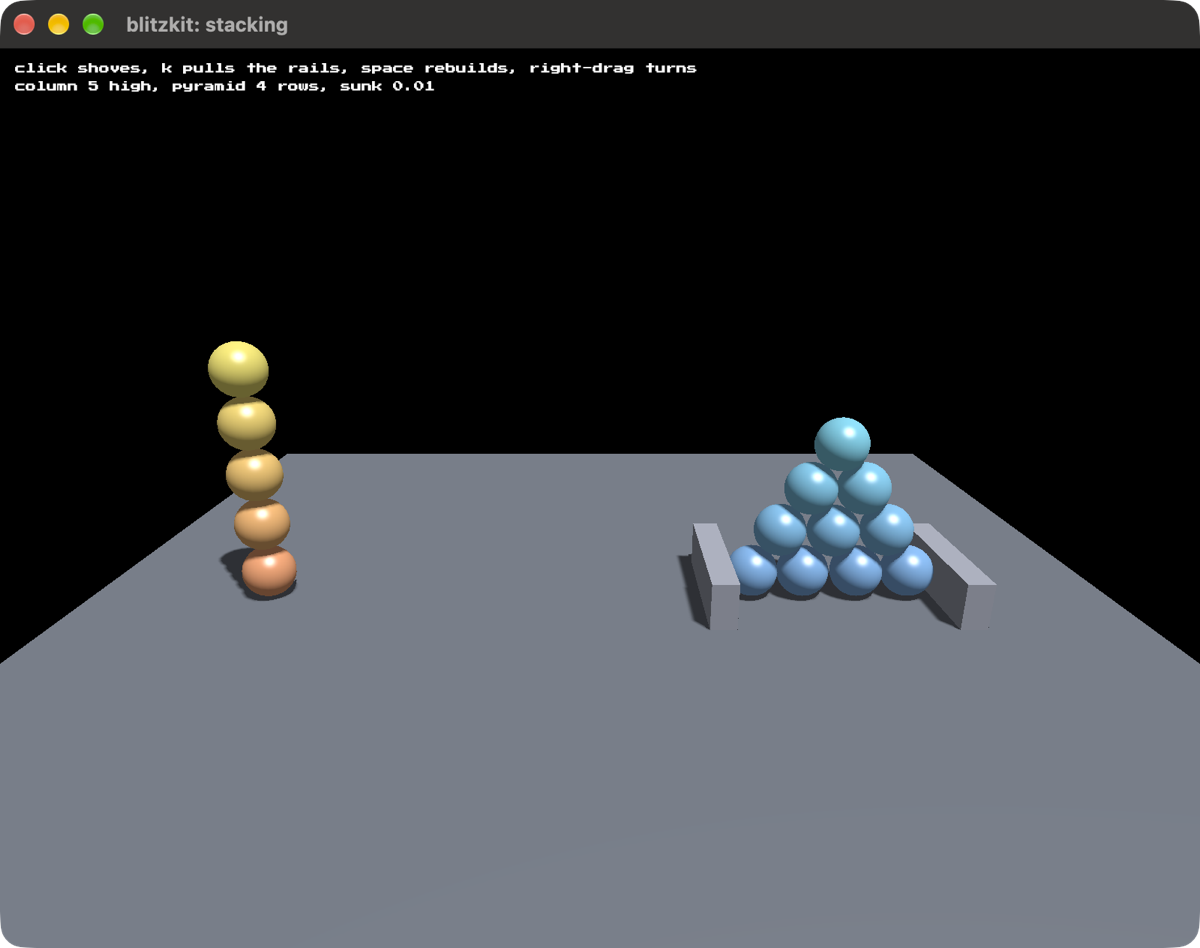
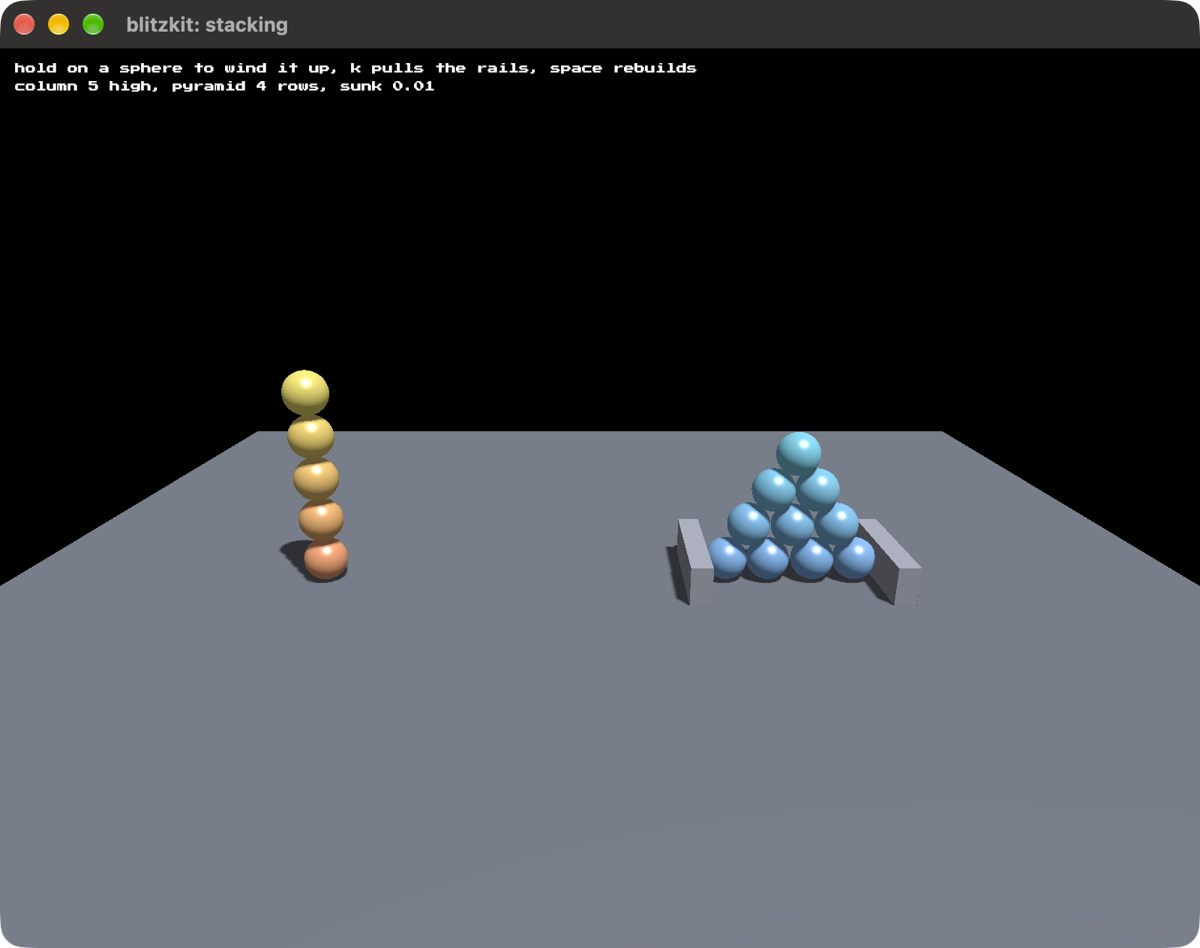
Wind up a shove by holding, and colour it by the pile it came from
Jake's idea: hold on a sphere and it runs to red, and the redder it is the
harder it goes. Aim is taken when you let go, so one can be wound up and
then pointed, and where the click landed is kept as an offset from the
middle rather than a point, so it still means the same place on a sphere
that moves while the button is down.

The first attempt was 4.0 to 10.0 on a straight ramp, and it all felt the
same. Measured, it was: a sphere leaves this floor at about 4, so every
release in the whole range was already past the edge and the colour was
reporting a difference the floor had no room to show. The floor is 28
across now instead of 20, the range is 1.5 to 18, and the ramp is
squared, which puts the half of the wind you can aim with under the first
half of the hold:

  0.25s   2.0   a nudge
  0.50s   3.3   a few units
  0.75s   5.6   reaches the edge
  1.00s   8.8   over it
  1.50s  18.0   out of frame inside half a second

The red follows the force rather than the clock, so it stays pale through
the part you can aim and goes properly red at the end.

Separately, a bug Jake caught: a pyramid sphere turning orange. draw
picked its colour by index, the first five being the column, and a sphere
going over the edge shifts every index after it, so a pyramid sphere slid
into the column's numbering and was drawn orange where it stood. The Pile
tag added for the readout exists for exactly this and draw was not
reading it. That is the third time today that index shift has caught
[…]

Changed region(s): [[0.0, 0.3365, 1.0, 0.7036], [0.0, 0.0612, 0.555, 0.0918]]

diff --git a/examples/stacking.rs b/examples/stacking.rs
@@ -40,7 +40,7 @@ const GRAVITY: f32 = -9.81;
 /// across and the plane mesh is a unit square, so scaling it by 20 drew half the
 /// floor that was there and balls rolled ten units into the black before they
 /// fell.
-const FLOOR: f32 = 20.0;
+const FLOOR: f32 = 28.0;
 /// Below this a sphere has left for good. Without it the readout went on
 /// reporting a ball eight thousand units down and two minutes into a fall, and
 /// the solver went on paying for it.
@@ -67,21 +67,36 @@ const LOST: f32 = -20.0;
 /// crosses a good third of the floor and the loose pile still ends up a long way
 /// short of the column.
 const ROLLING: f32 = 0.1;
-/// How hard a click shoves a sphere. Not the speed it leaves at: the strike
-/// lands on the surface, so friction spends a good part of it turning slip into
-/// spin, and 4.0 left a sphere rolling at 2.5 and stopped inside four seconds.
-/// Measured on this floor, which is 20 across, shoving flat:
+/// What a shove is worth let go at once, and wound to the end. Neither is the
+/// speed a sphere leaves at: the strike lands on the surface, so friction spends
+/// a good part of it turning slip into spin.
+///
+/// Measured in place, shoving the column across a floor 28 wide, which leaves
+/// about 14 units of run in front of it:
 ///
 /// ```text
-/// 4.0   6.0 units in 4.0s
-/// 5.0   9.3          5.0
-/// 6.0  13.4          6.0
-/// 8.0  23.8          8.1
+/// 1.8   3.9 units, stops
+/// 3.0   7.7 units, stops
+/// 4.4   off the edge
 /// ```
 ///
-/// 6.0 crosses most of the floor and takes six seconds doing it. Harder than
-/// that and a shove usually ends over the edge.
-const NUDGE: f32 = 6.0;
+/// Where the wind puts you, on the curve below:
+///
+/// ```text
+/// 0.25s   2.0   a nudge
+/// 0.50s   3.3   a few units
+/// 0.75s   5.6   reaches the edge
+/// 1.00s   8.8   over it
+/// 1.50s  18.0   out of frame inside half a second
+/// ```
+///
+/// This was 4.0 to 10.0 on a straight ramp and every release looked the same,
+/// because 4.0 was already past the edge: there was no soft end to the range,
+/// only gone and more gone.
+const SOFTEST: f32 = 1.5;
+const HARDEST: f32 = 18.0;
+/// Held this long and it is wound as far as it goes.
+const WINDING: f32 = 1.5;
 /// The two piles sit at opposite ends of the floor rather than beside each
 /// other. A four row pyramid has its top sphere two and a half units up, and a
 /// pile that flat spreads with every bit of that: at seven apart it reached the
@@ -127,6 +142,14 @@ struct Stacking {
     picked: Option<(usize, Vec3)>,
     /// The ray the last pick was made along, to shove along.
     aim: Option<Ray>,
+    /// The sphere being wound up and where on it the click landed, kept as an
+    /// offset from its middle rather than a point, so it still means the same
+    /// place if the sphere moves while the button is down.
+    winding: Option<(usize, Vec3)>,
+    /// How far through the wind, from none to all of it. Power is read off this
+    /// rather than added to directly, so the curve lives in one place.
+    wound: f32,
+    power: f32,
     rails: bool,
     quitting: bool,
 }
@@ -223,10 +246,13 @@ impl Stacking {
             gone: 0,
             camera_angle: 0.0,
             turning: false,
-            distance: 14.0,
+            distance: 17.0,
             cursor: Vec2::ZERO,
             picked: None,
             aim: None,
+            winding: None,
+            wound: 0.0,
+            power: SOFTEST,
             rails: true,
             quitting: false,
         }
@@ -292,6 +318,20 @@ impl Game for Stacking {
             });
             self.gone += keeping.iter().filter(|k| !**k).count();
             self.picked = None;
+            // Every index past the one that left has shifted, so a sphere held
+            // down through it is let go rather than struck by its old number.
+            self.winding = None;
+        }
+
+        if self.winding.is_some() {
+            self.wound = (self.wound + dt / WINDING).min(1.0);
+            // Squared, not straight. A sphere leaves a floor this size at about
+            // 4, so a straight ramp spent its first fifth on everything that
+            // stays put and the rest on degrees of gone. Squared, half the wind
+            // covers 1.5 to 5.6, which is the whole range you can aim, and the
+            // back half goes to 18, which does not stay on the floor and is not
+            // meant to.
+            self.power = SOFTEST + (HARDEST - SOFTEST) * self.wound * self.wound;
         }
 
         // How tall each pile still is, counted in spheres rather than units,
@@ -320,7 +360,7 @@ impl Game for Stacking {
         // vec!, not an array: on edition 2018 an array's into_iter hands back
         // references, which is the whole trap this project keeps walking into.
         for (line, text) in vec![
-            String::from("click shoves, k pulls the rails, space rebuilds, right-drag turns"),
+            String::from("hold on a sphere to wind it up, k pulls the rails, space rebuilds"),
             format!(
                 "column {} high, pyramid {} row{}{}, sunk {:.2}{}",
                 high,
@@ -371,16 +411,23 @@ impl Game for Stacking {
 
         // The column warms through its height and the pyramid cools through
         // its own, so which sphere is which stays readable while they move.
+        // Which pile a sphere came from is read from the tag beside it and not
+        // from its index: one going over the edge shifts every index after it,
+        // and a pyramid sphere sliding down into the column's numbers was drawn
+        // orange where it stood.
         for (which, body) in self.bodies.iter().enumerate() {
             let up = (body.position.y / 5.0).clamp(0.0, 1.0);
-            let mut colour = if which < HIGH {
-                vec4(0.9, 0.35 + up * 0.5, 0.2, 1.0)
-            } else {
-                vec4(0.25, 0.45 + up * 0.35, 0.85, 1.0)
+            let mut colour = match self.piles[which] {
+                Pile::Column => vec4(0.9, 0.35 + up * 0.5, 0.2, 1.0),
+                Pile::Pyramid => vec4(0.25, 0.45 + up * 0.35, 0.85, 1.0),
             };
             // The one under the cursor goes pale, so a click is aimed rather
-            // than hopeful.
-            if self.picked.map(|(at, _)| at) == Some(which) {
+            // than hopeful, and the one being wound up runs to red, which is
+            // the only reading of how hard it is about to be hit.
+            if self.winding.map(|(at, _)| at) == Some(which) {
+                let wound = ((self.power - SOFTEST) / (HARDEST - SOFTEST)).clamp(0.0, 1.0);
+                colour = colour.lerp(vec4(1.0, 0.12, 0.08, 1.0), wound);
+            } else if self.picked.map(|(at, _)| at) == Some(which) {
                 colour = (colour + vec4(0.5, 0.5, 0.5, 0.0)).min(vec4(1.0, 1.0, 1.0, 1.0));
             }
             scene.push_material(
@@ -438,18 +485,28 @@ impl Game for Stacking {
         match input.button {
             MouseButton::Right => self.turning = input.is_pressed(),
             MouseButton::Left if input.is_pressed() => {
-                // Shove it the way the cursor is looking, at the point the ray
-                // met it, so a click off centre spins it as well as moves it.
-                if let (Some((which, at)), Some(ray)) = (self.picked, self.aim) {
+                self.winding = self
+                    .picked
+                    .map(|(which, at)| (which, at - self.bodies[which].position));
+                self.wound = 0.0;
+                self.power = SOFTEST;
+            }
+            MouseButton::Left => {
+                // Aimed on release rather than on the press, so a sphere can be
+                // wound up and then pointed somewhere.
+                if let (Some((which, off)), Some(ray)) = (self.winding.take(), self.aim) {
                     // Flattened, because the camera looks down at the floor at
                     // about 24 degrees and a shove straight down the ray put a
                     // quarter of itself into the ground: 4.6 units of travel
-                    // against 6.0 for the same force sent along the floor. The
-                    // point it was aimed at is kept, so a click high on a sphere
-                    // still rolls it forward and one low still drags it back.
+                    // against 6.0 for the same force sent along the floor. Where
+                    // on the sphere it landed is kept, so high on one still rolls
+                    // it forward and low still drags it back.
                     let way = vec3(ray.direction.x, 0.0, ray.direction.z).normalize_or_zero();
-                    self.bodies[which].strike(way * NUDGE, at);
+                    let at = self.bodies[which].position + off;
+                    self.bodies[which].strike(way * self.power, at);
                 }
+                self.wound = 0.0;
+                self.power = SOFTEST;
             }
             _ => (),
         }

diff --git a/README.md b/README.md
@@ -46,10 +46,14 @@ where it should rest.
 cargo run --release --example stacking
 ```
 
-Click a sphere to shove it away from the camera, which is how to knock the column
-over. `K` pulls the rails out from either side of the pyramid and puts them back,
-space builds the whole thing again, dragging with the right button turns the
-camera, and scrolling zooms.
+Hold the left button on a sphere to wind it up and let go to shove it away from
+the camera, which is how to knock the column over. It runs to red as it winds,
+and it comes on late: half a second in it rolls a few units, three quarters of a
+second and it reaches the edge, and wound right to the end it goes bright red and
+leaves the frame inside half a second. Aim is taken when you let go, so one can be wound up and
+then pointed. `K` pulls the rails out from either side of the pyramid and puts
+them back, space builds the whole thing again, dragging with the right button
+turns the camera, and scrolling zooms.
 
 The rails are there because loose spheres will not hold a pyramid up on their
 own: each ball sitting in a valley shoves the two beneath it apart, and only the

diff --git a/site/content/docs/examples.md b/site/content/docs/examples.md
@@ -39,7 +39,8 @@ one up on their own: each ball sitting in a valley shoves the two beneath it
 apart, and only the floor's grip resists. Press K to pull the rails and watch
 four rows slump into two while the column at the far end stands there untouched.
 
-- click a sphere to shove it away from the camera
+- hold the left button on a sphere to wind it up, let go to shove it away from
+  the camera. It runs to red as it winds, and aim is taken when you let go
 - K pulls the rails and puts them back
 - space builds it again
 - drag with the right button to turn the camera
